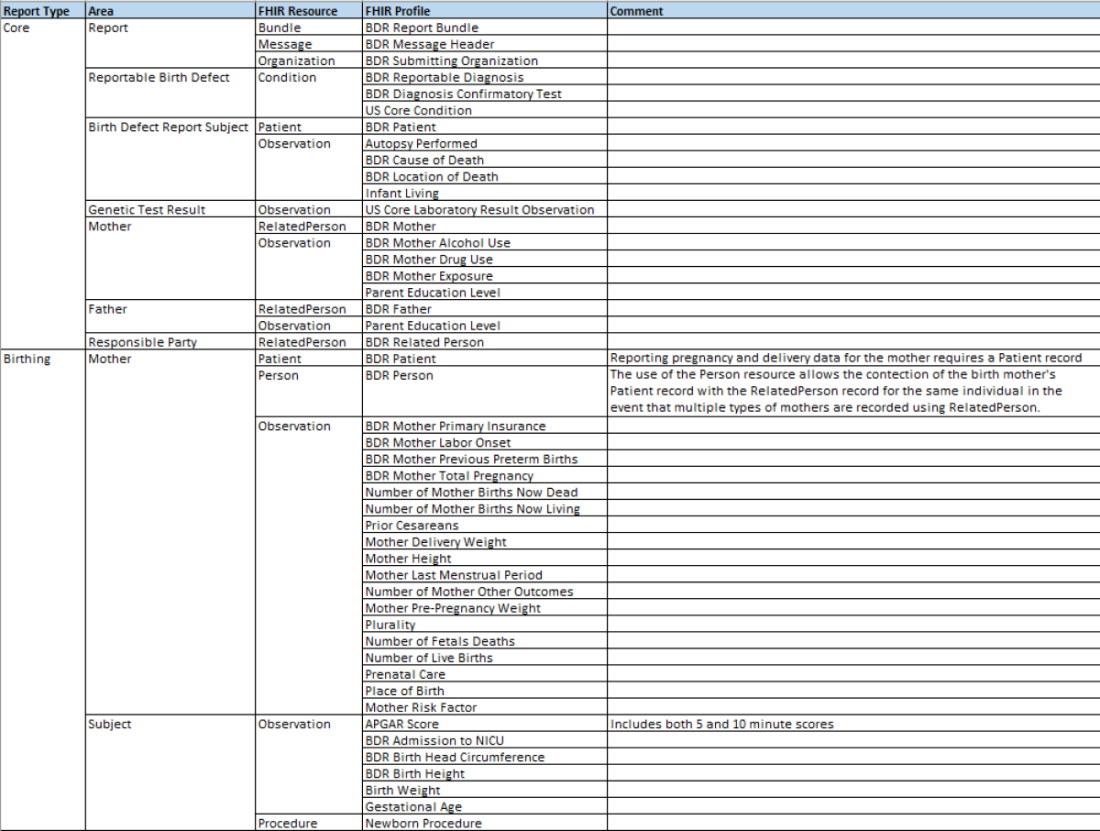
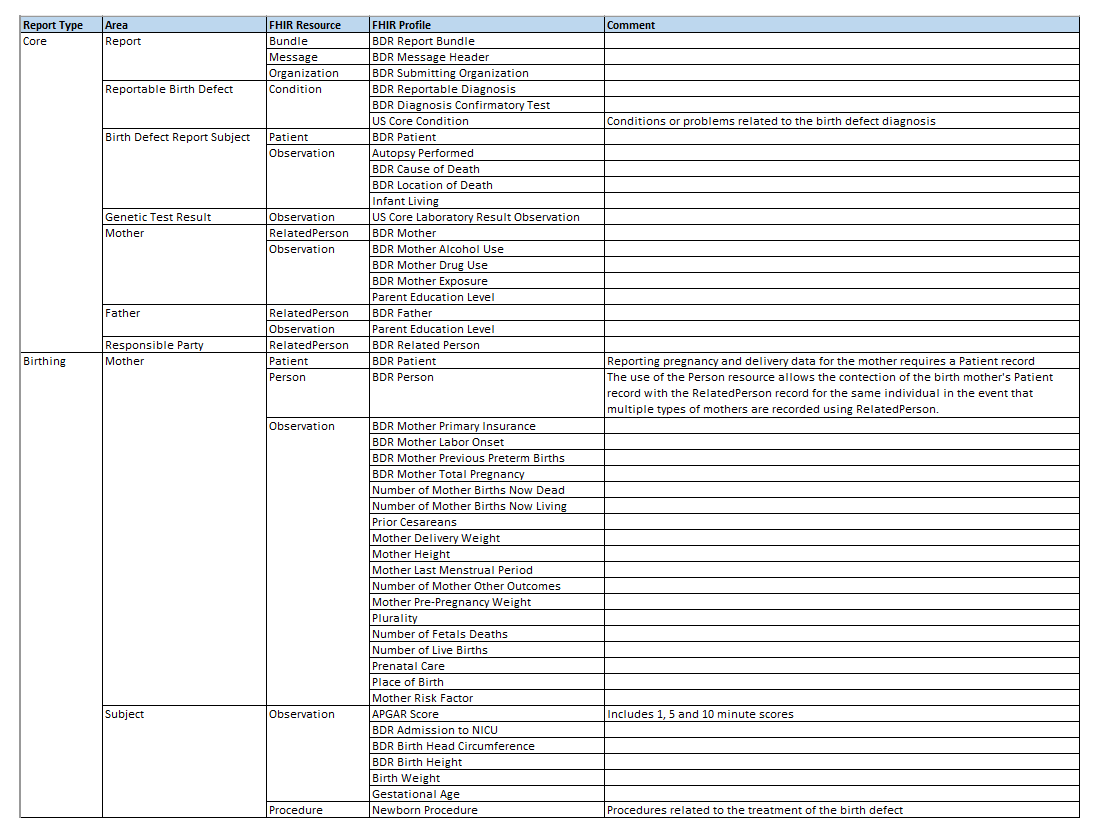
Add separate patient profiles

diff --git a/fsh/ig-data/input/pagecontent/1_Scope.md b/fsh/ig-data/input/pagecontent/1_Scope.md
@@ -6,9 +6,9 @@ The scope of this document is centered on the reporting of a birth defect diagno
 * Patient demographics and administrative information
 * Responsible party information (particularly about the mother and father of the subject)
 * Submitting provider/organization information
-* Birth defect diagnosis data
+* Birth defect diagnosis data (including conditions and problems related to the birth defect)
 * Pregnancy related data
-* Delivery related data (including outcomes, observations and procedures)
+* Delivery related data (including outcomes, observations and procedures related to the birth defect)
 * Other relevant clinical data about report subject
 
 ![Birth Defect Report Data Content](BDRcorecontent.png)
